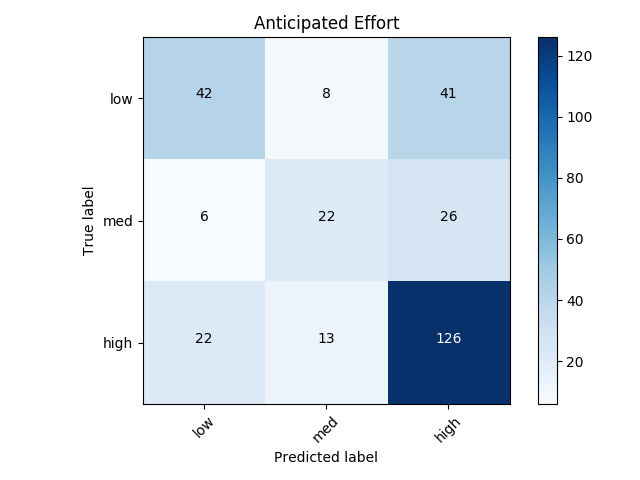
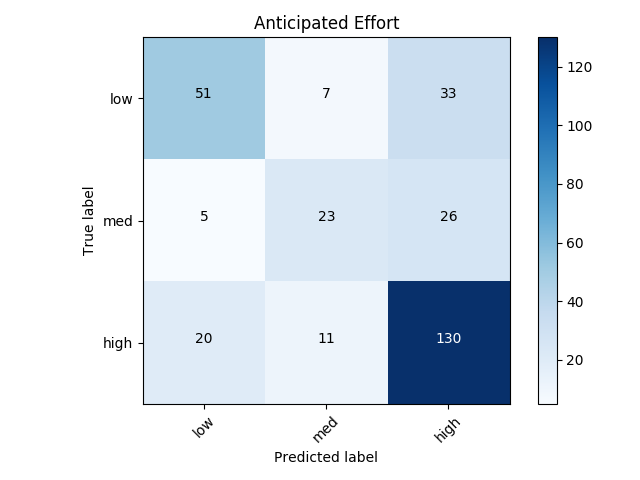
remove stopwords from uni + bi model

diff --git a/nlp_helpers.py b/nlp_helpers.py
@@ -54,7 +54,7 @@ def tokenize(row, ngram=0):
         return [" ".join(x) for x in list(nltk.bigrams(temp_ret))], row  
     
     if ngram == 2:
-        return temp_ret + [" ".join(x) for x in list(nltk.bigrams(temp_ret))], row
+        return [x for x in temp_ret if not is_stop_word(x)] + [" ".join(x) for x in list(nltk.bigrams(temp_ret))], row
         
 
 def is_stop_word(word):

diff --git a/model.py b/model.py
@@ -185,7 +185,7 @@ class ClarkModel(object):
         self.vocab = set()
         self.true = {}
         self.pred = {}
-        self.version = 0 # unigrams = 0, bigrams = 1, both = 2
+        self.version = 1 # unigrams = 0, bigrams = 1, both = 2
 
     def train(self, training_data):
         """
